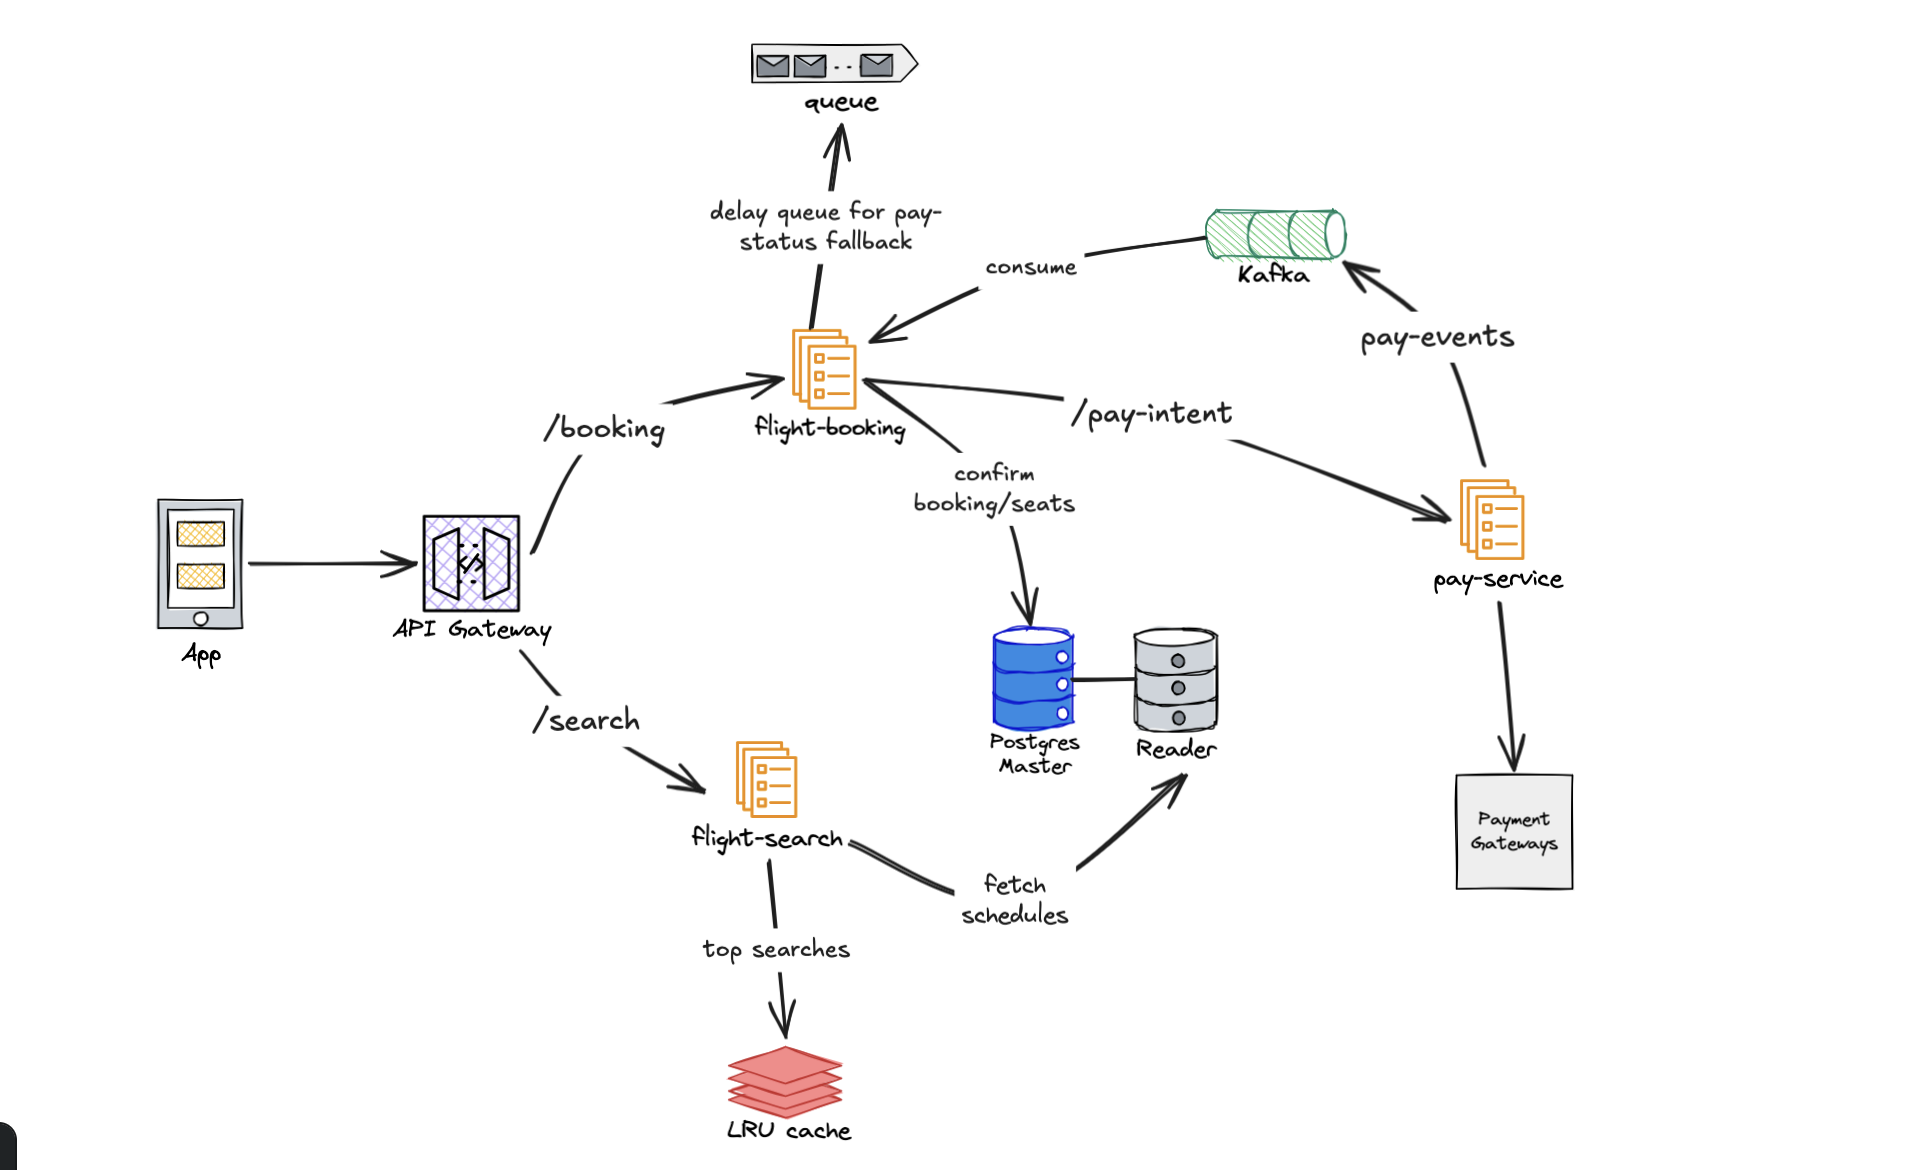
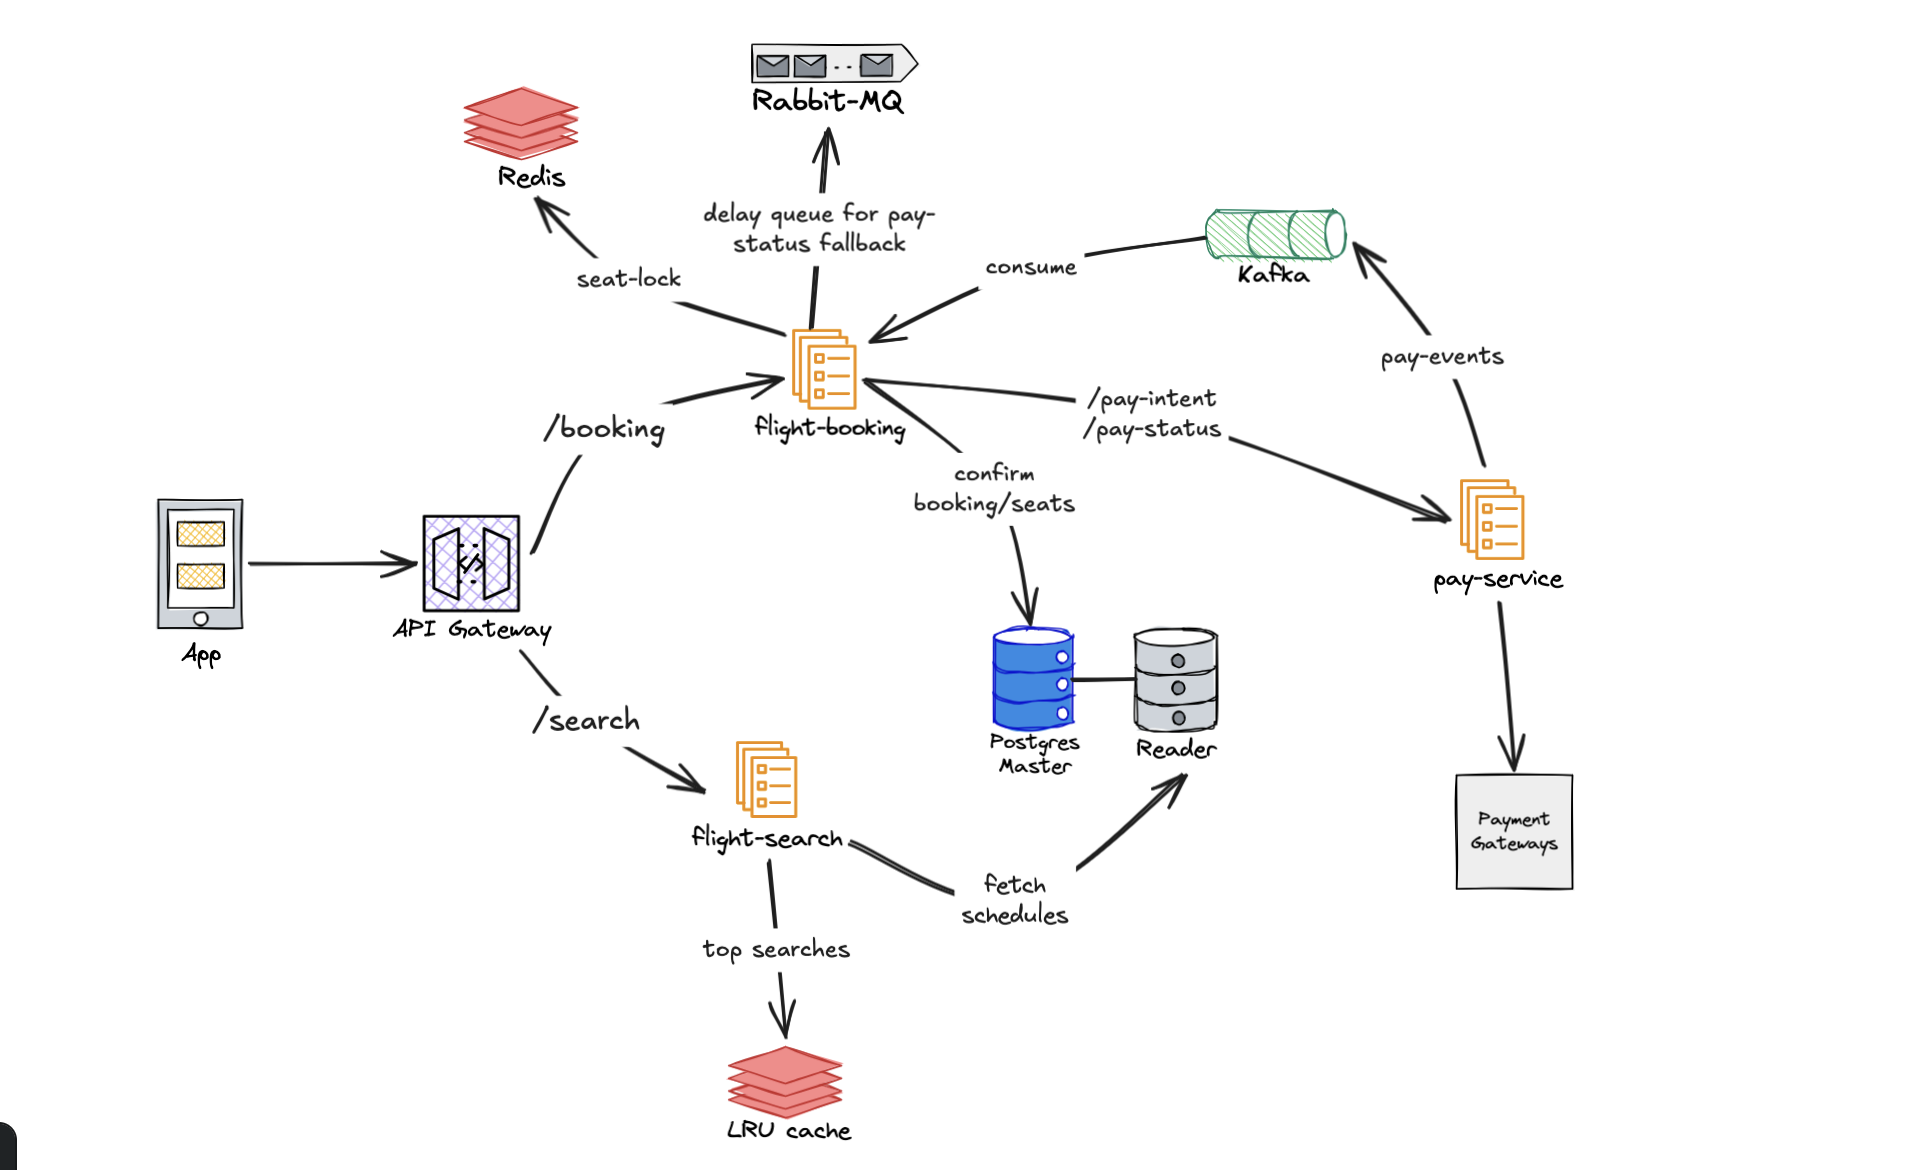
Updated doc

diff --git a/README.md b/README.md
@@ -38,8 +38,8 @@ The project is structured as a multi-module Gradle project:
 
 ## 📊 Visual Documentation (Diagrams)
 Detailed technical diagrams are available in the `doc/diagrams` folder:
-- **High-Level Design (HLD)**: [high_level_architecture.mmd](doc/diagrams/high_level_architecture.mmd)
 - **Booking Flow (Sequence)**: [booking_flow.mmd](doc/diagrams/booking_flow.mmd)
+- **Payment Events (Sequence)**: [payment-events.mmd](doc/diagrams/payment-events.mmd)
 - **Search LRU Caching (Sequence)**: [search_flow.mmd](doc/diagrams/search_flow.mmd)
 - **State Machine (Transitions)**: [state_transitions.mmd](doc/diagrams/state_transitions.mmd)
 - **Database Architecture (ERD)**: [db_schema.mmd](doc/diagrams/db_schema.mmd)